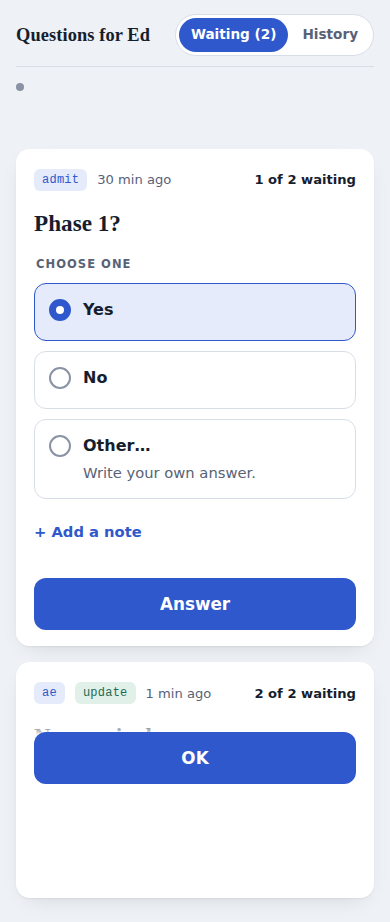
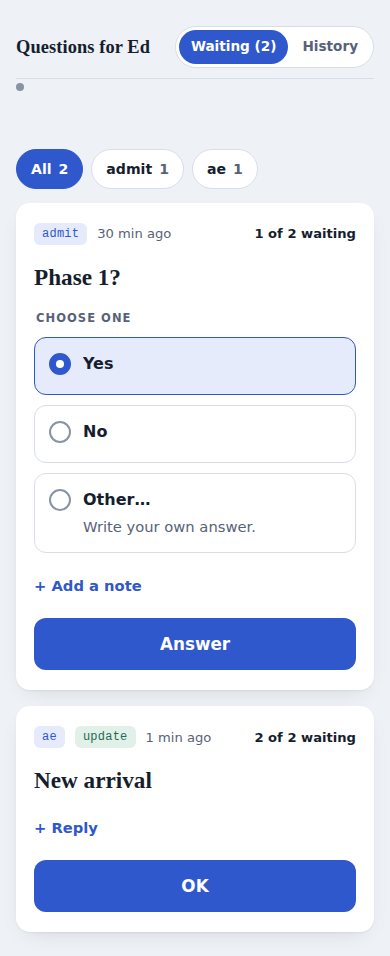
Questions page v17: filter chips per project
When items from more than one project wait, chips above the cards filter
to one project. Answer buttons sit in their own card rather than pinned
to the screen, which with many cards showed a button for a card not yet
in view.

Claude-Session: https://claude.ai/code/session_01TGJEAUgSWS2TUgzTZACXwy

diff --git a/claude/questions-page.html b/claude/questions-page.html
@@ -154,6 +154,15 @@ textarea{width:100%;font:16px/1.45 var(--f-ui);color:var(--ink);background:var(-
 .notice{color:var(--muted);text-align:center;padding:40px 12px}
 /* Waiting: every open item, each a full card answered where it stands (Ed, 2026-10-03) */
 .cards{display:flex;flex-direction:column;gap:16px}
+/* with many cards a button pinned to the screen's foot belongs to a card not yet in view: each sits in its own card */
+.cards .actions{position:static;margin:0;padding:0;background:none}
+/* one chip per project, shown only when items from more than one wait (Ed, 2026-10-03) */
+.chips{display:flex;flex-wrap:wrap;gap:8px;margin:0 0 14px}
+.chips[hidden]{display:none}
+.chips button{font:700 .88rem/1 var(--f-ui);color:var(--ink);background:var(--surface);border:1.5px solid var(--line);border-radius:999px;min-height:40px;padding:0 14px;cursor:pointer;display:inline-flex;align-items:center;gap:7px}
+.chips button .n{font-variant-numeric:tabular-nums;color:var(--muted);font-weight:700}
+.chips button[aria-pressed="true"]{background:var(--accent);border-color:var(--accent);color:var(--accent-ink)}
+.chips button[aria-pressed="true"] .n{color:var(--accent-ink)}
 </style>
 </head>
 <body>
@@ -197,6 +206,7 @@ textarea{width:100%;font:16px/1.45 var(--f-ui);color:var(--ink);background:var(-
     coordinators: {},         // project -> that project's coordinator session URL
     lastActive: {},           // project -> when its coordinator last did anything (ISO)
     flights: new Map(),       // id -> an in-flight item: work a coordinator is waiting on
+    chip: '',                 // the project the Waiting list is filtered to, '' for all
     wakeMsg: '', wakeState: '' // the outcome of the last send, shown until the next check
   };
 
@@ -483,10 +493,21 @@ textarea{width:100%;font:16px/1.45 var(--f-ui);color:var(--ink);background:var(-
     el.dataset.key = cardKey(id, q);
     return el;
   }
-  function renderCards(open, force){
+  function renderCards(all, force){
     let list = main.querySelector(':scope > .cards');
-    if (!list) { main.innerHTML = '<div class="cards"></div>'; list = main.firstElementChild; force = true; }
+    if (!list) { main.innerHTML = '<nav class="chips" aria-label="Filter by project" hidden></nav><div class="cards"></div>'; list = main.querySelector('.cards'); force = true; }
     S.shownKey = 'cards';
+    // projects in order of their oldest waiting item; the filter lapses once its project has nothing waiting
+    const counts = new Map(), names = new Map();
+    all.forEach(([, q]) => { const k = projectKey(q); counts.set(k, (counts.get(k) || 0) + 1); if (!names.has(k)) names.set(k, String(q.project || 'project')); });
+    if (counts.size < 2 || !counts.has(S.chip)) S.chip = '';
+    const chips = main.querySelector('.chips');
+    const chipHtml = counts.size < 2 ? '' :
+      '<button type="button" data-chip="" aria-pressed="' + !S.chip + '">All <span class="n">' + all.length + '</span></button>' +
+      [...counts].map(([k, n]) => '<button type="button" data-chip="' + esc(k) + '" aria-pressed="' + (S.chip === k) + '">' + esc(names.get(k)) + ' <span class="n">' + n + '</span></button>').join('');
+    if (chips.innerHTML !== chipHtml) chips.innerHTML = chipHtml;
+    chips.hidden = !chipHtml;
+    const open = S.chip ? all.filter(([, q]) => projectKey(q) === S.chip) : all;
     const have = new Map([...list.children].map(el => [el.dataset.id, el]));
     const want = open.map(([id, q], i) => {
       let el = have.get(id);
@@ -793,6 +814,8 @@ textarea{width:100%;font:16px/1.45 var(--f-ui);color:var(--ink);background:var(-
       });
       return;
     }
+    const chip = e.target.closest('[data-chip]');
+    if (chip) { const k = chip.dataset.chip; S.chip = k && k !== S.chip ? k : ''; render(false); return; }
     const open = e.target.closest('[data-open]');
     if (open) { S.editId = open.dataset.open; S.error = ''; S.animate = true; render(true); window.scrollTo(0, 0); return; }
     const act = e.target.closest('[data-act]')?.dataset.act; if (!act) return;

diff --git a/claude/QUESTIONS-PAGE.md b/claude/QUESTIONS-PAGE.md
@@ -12,6 +12,7 @@ The page where coordinators on Ed's projects put questions only Ed can answer, a
   - 2026-10-01 (v12): mis-shaped items report themselves to the dev-ops coordinator.
   - 2026-10-02 (v13): an item written without `status` shows, as mis-shaped, instead of staying invisible; so do options without keys.
   - 2026-10-02 (v14): a `copy` or `restart` with a `url` shows as two big buttons, *1 · copy* then *2 · open*, instead of one button that copies and opens at once (Ed: *split this into two big buttons*). A `label` written *Copy X, open Y* names the two buttons *Copy X* and *Open Y*.
+  - 2026-10-03 (v17): filter chips, one per project, when items from more than one project wait; answer buttons sit in their own card.
   - 2026-10-03 (v16): every waiting item fully open at once, each answerable in place, instead of one open and the rest as lines (Ed: *every item fully open please*).
   - 2026-10-03 (v15): *Waiting* lists every open item, the one being answered opened in place, instead of one at a time behind *Later* (Ed: *I'd like to see all outstanding items in the list*). A coordinator with an item open on the page is waiting on Ed, so it is no longer shown as quiet or given a nudge (Ed: *what do we do about tasks to awaken coordinators that have no outstanding jobs?*).
 - **Source:** [`questions-page.html`](questions-page.html) in this folder is the published page. Change it here, republish it with the Artifact tool (`url` the page above, capabilities restated in full — `{"db":{"rules":[{"path":"","read":"owner","write":"owner"}]},"user":{},"comments":{}}` — since a publish that names capabilities replaces the whole set), and commit the file in the same PR.
@@ -37,7 +38,7 @@ One document per item. An item is a **question** (choose among options), an **up
 | `answer` | `{keys: [..], other: string, note: string, at: ISO}` | page | Ed's answer. `keys` are option keys (may be empty when he wrote only *Other*); for an update it is `["ok"]`, for a task `["done"]`; `other` is his own answer text or `""`; `note` is his note (or reply) to you or `""` |
 | `handledAt` | ISO datetime | coordinator | optional: set once the coordinator has acted on the answer |
 
-*Waiting* shows every open item as a full card, oldest `asked` first, each answered where it stands (Ed, 2026-10-03: *I'd like to see all outstanding items in the list, not just one at a time*, then *every item fully open please*). Each card carries *n of N waiting*. An answered card slides away and the rest stay put. Each card is redrawn only when its own item changes, so a choice made or a note half-typed in one card survives another item arriving, changing or being answered.
+*Waiting* shows every open item as a full card, oldest `asked` first, each answered where it stands (Ed, 2026-10-03: *I'd like to see all outstanding items in the list, not just one at a time*, then *every item fully open please*). Each card carries *n of N waiting*. An answered card slides away and the rest stay put. Each card is redrawn only when its own item changes, so a choice made or a note half-typed in one card survives another item arriving, changing or being answered. Each card's answer button sits at the foot of its own card, not pinned to the screen. **Filter chips**: when items from more than one project wait, a row of chips above the cards reads *All n*, then one chip per project with its count, in order of each project's oldest item (Ed, 2026-10-03: *tabs for each project that appear when there are items from multiple projects. Or maybe filter chips*). A tap shows only that project's cards (counted *n of N* within it); a second tap, or *All*, shows every card. A draft kept in one project's card survives switching. The filter lapses to *All* once its project has nothing waiting, and the chips go when only one project has items. A reload starts on *All*.
 
 The page only ever `update`s `status` and `answer`, never anything else. Ed can change an answer later from History: that rewrites `answer` (with a new `at`) and leaves `status` as `answered`. Withdrawn questions are not shown anywhere on the page.
 
